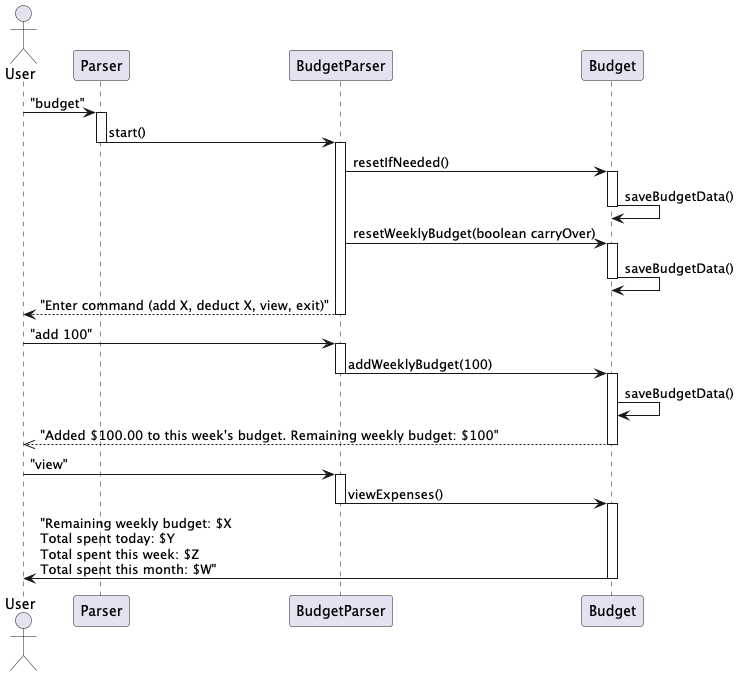
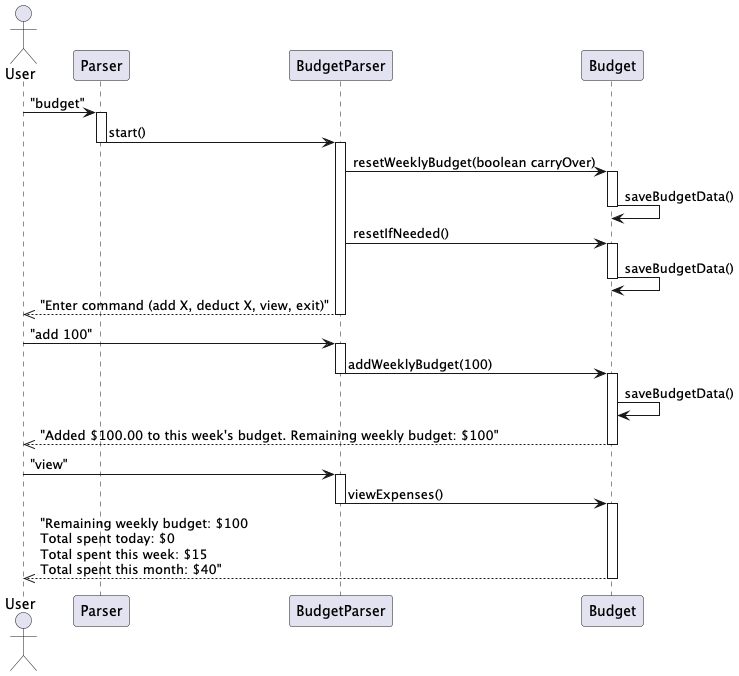
Improve developer guide and sequence diagram
-Added user stories related to budget features
-Removed class diagram, as I thought it was uncessary and my explanations are enough
-Added instructions for manual testing of budget features including the resets of expenses/budget
-Changed output to be represented by dotted lines in sequence diagram

diff --git a/docs/DeveloperGuide.md b/docs/DeveloperGuide.md
@@ -156,12 +156,8 @@ expenses.
 from the previous week.
 5. `resetIfNeeded()`: Periodic resets if needed
 * *Daily Reset*: Resets daily expenses at midnight.
-* *Weekly Reset*: Resets weekly expenses every Monday.
+* *Weekly Reset*: Resets weekly expenses every Sunday.
 * *Monthly Reset*: Resets total monthly expenses at the start of a new month.
-
-The following class diagram shows in detail all the methods and atributes in Budget class and shows its relationship
-with BudgetParser and Parser class.
-![BudgetClassDiagram](diagrams/BudgetClassDiagram.png)
 
 ### Sequence of operations
 1. Upon launching the application, the Navi.main() method initializes the system and prompts the user for input.
@@ -206,9 +202,14 @@ ___
 | v1.0    | hungry user                   | know which canteen is nearest to me                                         | go and eat as soon as possible                                                  |
 | v1.0    | hot user                      | know which canteen has air conditioning                                     | go and eat in a cooling environment                                             |
 | v1.0    | user                          | know how far the nearest canteen is away from me                            | roughly know how long it'll take to get there                                   |
+| v1.0    | student                       | set a weekly budget                                                         | manage my spending on meals effectively                                         |
+| v1.0    | budget-conscious user         | track my daily/weekly food expenses                                         | stay within my weekly budget                                                    |
+| v1.0    | organised user                | see my remaining weekly budget                                              | make informed decisions about where/what to eat                                 |
 | v2.0    | user with dietary restriction | know which exact stalls in the canteen that matches my dietary restrictions | conveniently find stalls to buy from that falls within my dietary restrictions  |
 | v2.0    | lazy user                     | have command shortcuts                                                      | save time typing and manoeuvre around the app quickly                           |
 | v2.0    | adventurous user              | check what stalls does other canteens have aside from the one nearest to me | try new food and explore new cuisines                                           |
+| v2.0    | reflective user               | view my monthly spendings                                                   | understand my long-term eating habits and adjust accordingly                    |
+| v2.0    | user with habit of saving     | carry over unused budget to the next week                                   | have flexibility in my spending across weeks                                    |
 
 ## Non-Functional Requirements
 ___
@@ -228,8 +229,7 @@ ___
 * Users should see a greeting message, prompting user to enter their name.
 
 ### Test cases
-#### Navi
-Prerequisites: Entered a `username`
+#### <u> Navi main menu </u>
 * Test case: `canteen`
   * Expected: Navi enters the canteen feature
 * Test case: `favorites`
@@ -240,16 +240,16 @@ Prerequisites: Entered a `username`
   * Expected: Exits Navi, program ends
 * Test case: `CS2113` or ` `
   * Expected: Nothing happens and error message is shown with details on valid inputs
-#### 1. Canteen
-Prerequisites: After entering username, entered `canteen`
+#### <u> 1. Canteen </u>
+Prerequisites: Entered `canteen`
 * Test case: `finder`
   * Expected: Navi enters canteen finder feature
 * Test case: `lookup`
   * Expected: Navi enters canteen lookup feature
 * Test case: `quit`
   * Expected: Navi exits Canteen feature
-#### 1.1 Canteen Finder
-Prerequisites: Entered `username` -> `canteen` -> `finder`
+#### <u> 1.1 Canteen Finder </u>
+Prerequisites: Entered `canteen` -> `finder`
 * Test case: `Halal Certified` -> `CDE`
   * Expected: Navi lists all the halal certified stalls in Techno Edge
 * Test case: `NIL` -> `SOC`
@@ -258,11 +258,40 @@ Prerequisites: Entered `username` -> `canteen` -> `finder`
   * Expected: Navi exits Canteen Finder feature
 * Test case: `CS2113` or ` `
     * Expected: Nothing happens and error message is shown with details on valid inputs
-#### 1.2 Canteen Lookup
-Prerequisites: Entered `username` -> `canteen` -> `lookup`
+#### <u> 1.2 Canteen Lookup </u>
+Prerequisites: Entered `canteen` -> `lookup`
 * Test case: `Techno Edge`
   * Expected: Navi lists all the stalls in Techno Edge
 * Test case: `exit`
   * Expected: Navi exits Canteen Lookup feature
 * Test case: `CS2113` or ` `
     * Expected: Nothing happens and error message is shown with details on valid inputs
+#### <u> 2. Budget tracker </u>
+Prerequisites: Entered `budget`
+* Test case: `add 100`
+    * Expected: Navi adds $100 to weekly budget and shows remaining weekly budget.
+* Test case: `deduct 20`
+    * Expected: Navi deducts $20 from weekly budget and adds it to daily expenses, weekly expenses and monthly expenses. 
+Navi shows remaining weekly budget.
+* Test case: `view`
+    * Expected: Navi shows remaining weekly budget, total spent today, total spent this week and total spent this month.
+* Test case: `exit`
+    * Expected: Navi exits from budget tracker feature and returns to main menu.
+* Test case: `cs2113`
+    * Expected: Navi shows an error message with details on valid inputs
+* Test case: `add abc` or `add -50`
+    * Expected: Navi shows a message to enter a positive number or a valid number
+
+To test automatic reset of daily/weekly/monthly expenses and manual reset of weekly budget:
+1. Add budget and deduct some expenses as per normal
+2. Quit Navi jar file and change the date on your computer settings
+   1. To test all 4 resets at the same time, change the date to 2 May 2025 
+   2. To test daily expenses reset only, change the date to 12 April.
+   3. To test reset of weekly expenses and weekly budget (where you will be prompted with the question of `Do you want to carry over last week's remaining budget? (yes/no)`),
+change the date to 14 April 
+   4. To test monthly expenses reset only, change the date to 2 May
+3. Enter Navi jar file again and enter budget feature (`budget`)
+4. Check remaining budget and expenses by entering `view`
+#### <u> 3. Favorites manager </u>
+
+

diff --git a/docs/UserGuide.md b/docs/UserGuide.md
@@ -383,7 +383,7 @@ Format: `exit`
 ### Automatic expenses resets
 Navi automatically resets the following attributes at appropriate times.
 * Daily Reset: Daily expenses clear at midnight
-* Weekly Reset: Weekly expenses clear on Monday
+* Weekly Reset: Weekly expenses clear on Sundays
 * Monthly Reset: Monthly expenses clear on 1st of month
 ___
 ## Favorites: `favorites`
@@ -569,14 +569,14 @@ ___
 ___
 ### Budget tracker
 
-| Feature                              | Command         | Prompt                                                           |
-|--------------------------------------|-----------------|------------------------------------------------------------------|
-| Enter Budget                         | `budget`        |                                                                  |
-| Carry over budget from previous week | `yes` or `no`   | Do you want to carry over last week's remaining budget? (yes/no) |
-| Add funds to weekly budget           | `add AMOUNT`    | -                                                                |
-| Record expenses                      | `deduct AMOUNT` | -                                                                |
-| View expenses & budget               | `view`          | -                                                                |
-| Exit Budget                          | `exit`          | -                                                                |
+| Feature                              | Command         | Prompt                                                             |
+|--------------------------------------|-----------------|--------------------------------------------------------------------|
+| Enter Budget                         | `budget`        |                                                                    |
+| Carry over budget from previous week | `yes` or `no`   | `Do you want to carry over last week's remaining budget? (yes/no)` |
+| Add funds to weekly budget           | `add AMOUNT`    | -                                                                  |
+| Record expenses                      | `deduct AMOUNT` | -                                                                  |
+| View expenses & budget               | `view`          | -                                                                  |
+| Exit Budget                          | `exit`          | -                                                                  |
 
 ___
 ### Favorites manager
